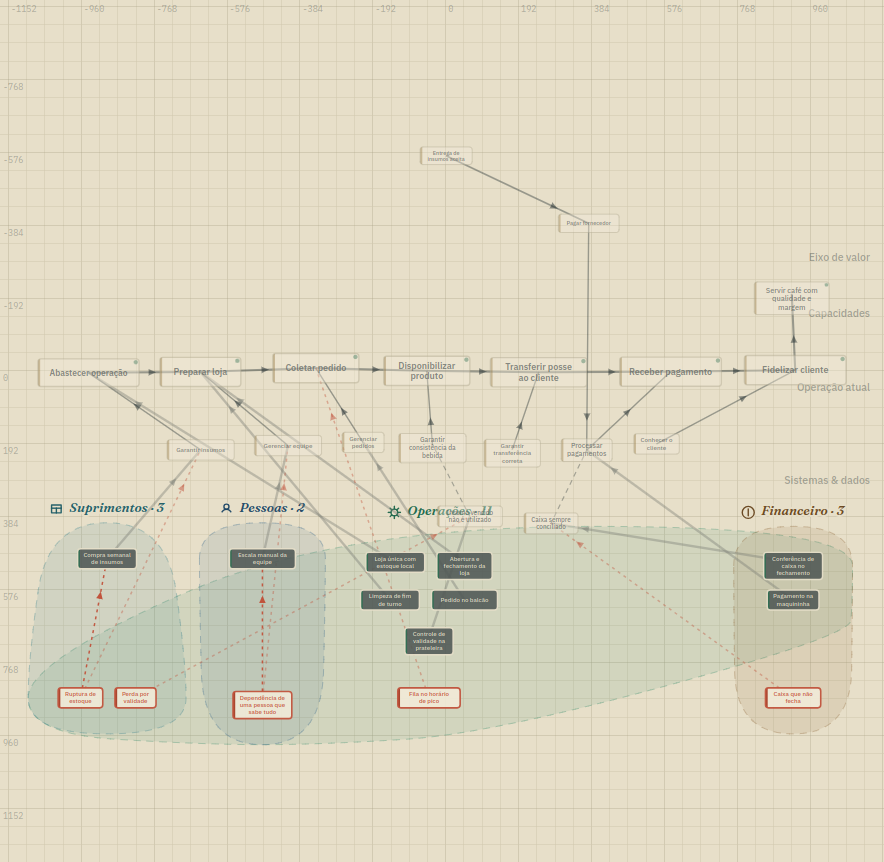
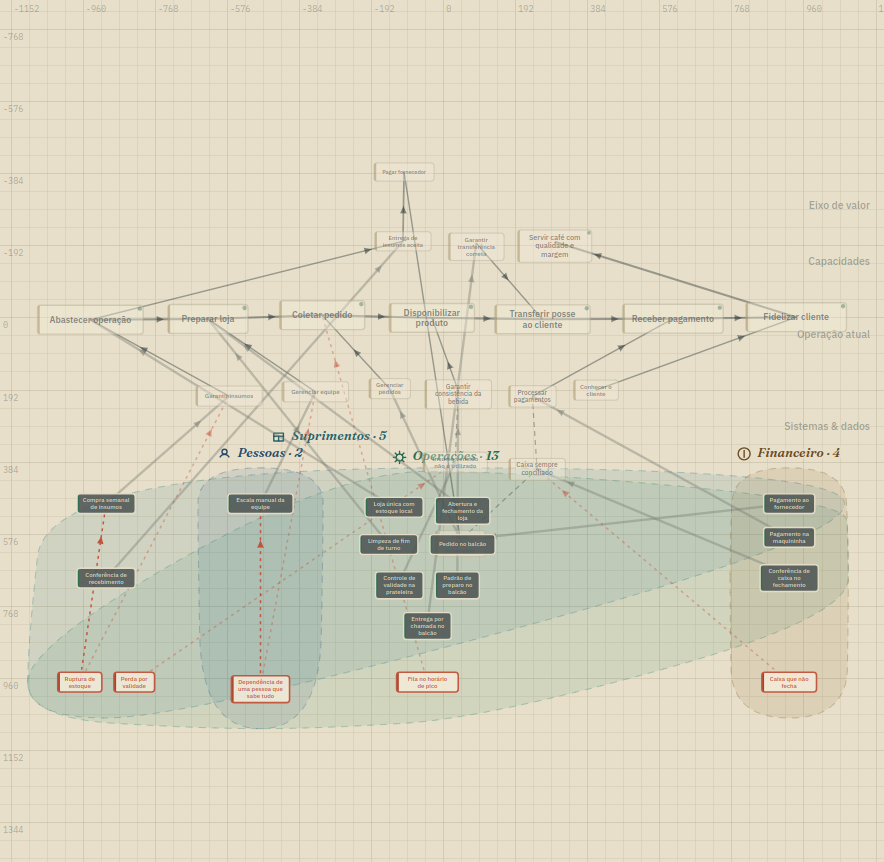
Corrige a receita de instalação da janela nativa
Num clone limpo, `pip install -r requirements.txt` não faz `./notocorda`
abrir: o pywebview usa o WebKit do sistema e precisa das ligações GTK ou Qt
de fora do venv. O README prometia três comandos que falhavam — agora
separa o caminho do navegador (que não instala nada) do caminho da janela
nativa, com os pacotes do sistema e o --system-site-packages.

Captura do README atualizada para o estado atual do fixture.

diff --git a/README.md b/README.md
@@ -54,15 +54,28 @@ desenha — nada some no caminho, nada aparece do nada.
 
 ## Rodar
 
-```bash
-python3 -m venv .venv && .venv/bin/pip install -r requirements.txt
-./notocorda                    # janela nativa, abre o exemplo da cafeteria
-```
-
-Sem instalar nada — serve por HTTP e abre no navegador:
+O caminho curto, sem instalar nada — o mapa é uma página:
 
 ```bash
 python3 -m http.server 8137    # depois: http://localhost:8137/viewer/
+```
+
+Para o compilador e o validador, um venv comum basta:
+
+```bash
+python3 -m venv .venv && .venv/bin/pip install -r requirements.txt
+.venv/bin/python compiler/validate.py examples/cafeteria/graph.json
+```
+
+A **janela nativa** (`./notocorda`) usa o WebKit do próprio sistema, e o pip
+não entrega isso: o `pywebview` precisa das ligações GTK ou Qt instaladas
+fora do venv. No Debian/Ubuntu:
+
+```bash
+sudo apt install python3-gi gir1.2-webkit2-4.1
+python3 -m venv --system-site-packages .venv   # o venv precisa enxergá-las
+.venv/bin/pip install -r requirements.txt
+./notocorda                                    # abre o exemplo da cafeteria
 ```
 
 Outros usos:
@@ -71,7 +84,6 @@ Outros usos:
 ./notocorda --listar                          # que mapas existem por perto
 ./notocorda ../meu-vault/generated/graph.json # o mapa não precisa morar aqui
 ./notocorda --web 8137                        # só serve, sem janela nativa
-python3 compiler/validate.py examples/cafeteria/graph.json
 ```
 
 ## Como está organizado
